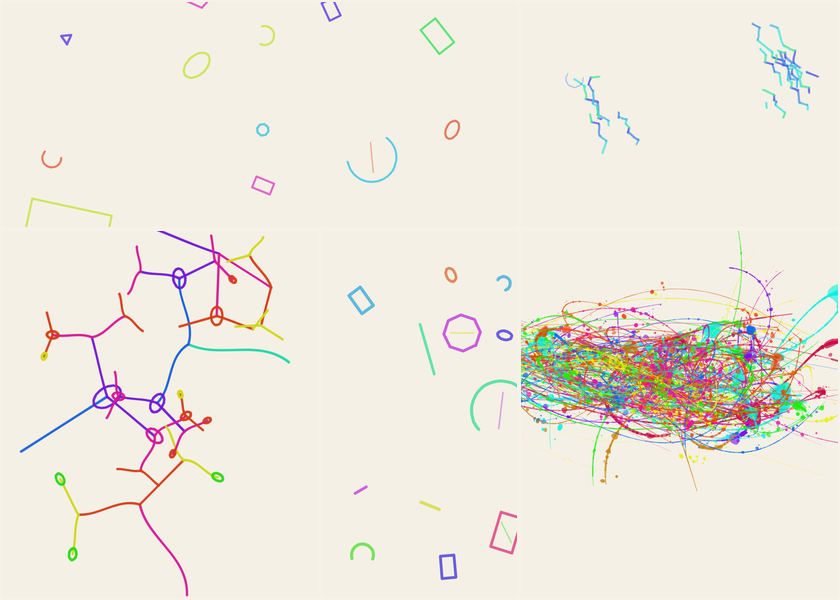
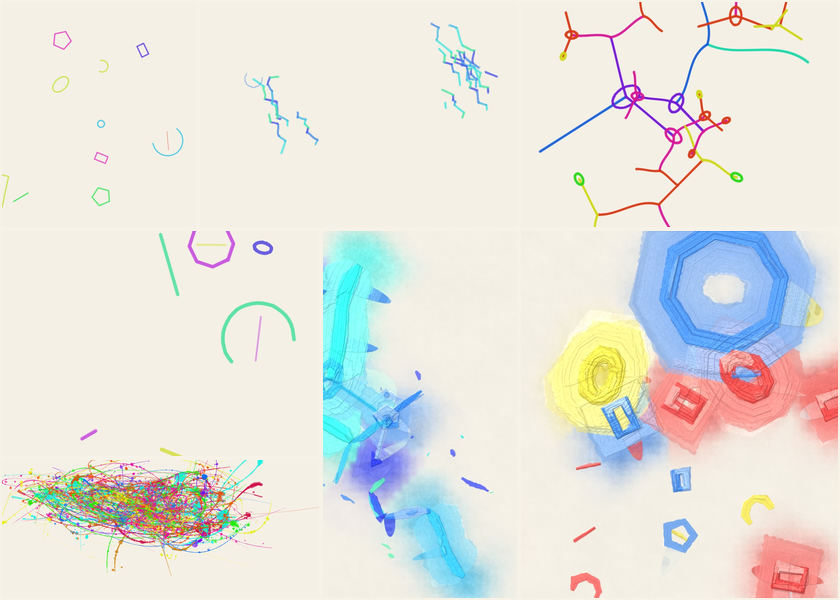
Archive ALGO ART gallery 2026-10-22

diff --git a/gallery/2026-10-22/index.html b/gallery/2026-10-22/index.html
@@ -4,7 +4,7 @@
 <meta charset="utf-8">
 <meta name="viewport" content="width=device-width,initial-scale=1">
 <title>PROPORTION PIECE Daily Gallery — 22 October 2026 | Golden Ratio Generative Art</title>
-<meta name="description" content="5 drawings made on 22 October 2026. Different materials, different compositions, and room to make each one your own.">
+<meta name="description" content="7 drawings made on 22 October 2026. Different materials, different compositions, and room to make each one your own.">
 <meta name="robots" content="index,follow,max-image-preview:large">
 <link rel="canonical" href="https://southernadd-cmyk.github.io/algoart/gallery/2026-10-22/">
 <link rel="icon" type="image/svg+xml" href="../../favicon.svg">
@@ -16,16 +16,16 @@
 <meta property="og:type" content="website">
 <meta property="og:site_name" content="PROPORTION PIECE">
 <meta property="og:title" content="PROPORTION PIECE Daily Gallery — 22 October 2026 | Golden Ratio Generative Art">
-<meta property="og:description" content="5 drawings made on 22 October 2026. Different materials, different compositions, and room to make each one your own.">
+<meta property="og:description" content="7 drawings made on 22 October 2026. Different materials, different compositions, and room to make each one your own.">
 <meta property="og:url" content="https://southernadd-cmyk.github.io/algoart/gallery/2026-10-22/">
 <meta property="og:image" content="https://southernadd-cmyk.github.io/algoart/gallery/2026-10-22/2026-10-22-01-geometric-AA-20261022-01-51330.jpg">
 <meta property="og:image:width" content="1400">
 <meta property="og:image:height" content="1000">
 <meta name="twitter:card" content="summary_large_image">
 <meta name="twitter:title" content="PROPORTION PIECE Daily Gallery — 22 October 2026 | Golden Ratio Generative Art">
-<meta name="twitter:description" content="5 drawings made on 22 October 2026. Different materials, different compositions, and room to make each one your own.">
+<meta name="twitter:description" content="7 drawings made on 22 October 2026. Different materials, different compositions, and room to make each one your own.">
 <meta name="twitter:image" content="https://southernadd-cmyk.github.io/algoart/gallery/2026-10-22/2026-10-22-01-geometric-AA-20261022-01-51330.jpg">
-<script type="application/ld+json">{"@context":"https://schema.org","@type":"CollectionPage","name":"PROPORTION PIECE Daily Gallery — 22 October 2026","description":"5 drawings made on 22 October 2026. Different materials, different compositions, and room to make each one your own.","url":"https://southernadd-cmyk.github.io/algoart/gallery/2026-10-22/","isPartOf":{"@type":"WebSite","name":"PROPORTION PIECE","url":"https://southernadd-cmyk.github.io/algoart/"},"about":["generative art","algorithmic art","golden ratio","creative coding","digital marker art"],"mainEntity":{"@type":"ItemList","numberOfItems":5,"itemListElement":[{"@type":"ListItem","position":1,"item":{"@type":"VisualArtwork","name":"Constructed Forms — Study 01","description":"Constructed Forms generative marker artwork using seed AA-20261022-01-51330, 95% Additional φ pull, fine pen and the spectrum palette.","image":"https://southernadd-cmyk.github.io/algoart/gallery/2026-10-22/2026-10-22-01-geometric-AA-20261022-01-51330.jpg","url":"https://southernadd-cmyk.github.io/algoart/?v=8&seed=AA-20261022-01-51330&mode=geometric&el=36&den=60&cx=59&neg=39&phi=95&rec=7&spi=29&ga=87&nest=23&pen=fine&th=12&wob=47&od=5&op=72&pr=40&dry=28&curve=5&shape=67&overlap=41&rot=87&ln=1&ci=1&re=1&po=1&ar=1&pal=spectrum&cols=6&sat=76&bri=58&paper=%23f5f0e6&grain=26&sheet=phi","artform":"Generative digital marker art","artMedium":"Browser canvas and deterministic algorithm","creator":{"@type":"Organization","name":"PROPORTION PIECE","url":"https://southernadd-cmyk.github.io/algoart/"}}},{"@type":"ListItem","position":2,"item":{"@type":"VisualArtwork","name":"Automatic Marks — Study 02","description":"Automatic Marks generative marker artwork using seed AA-20261022-02-28949, 87% Additional φ pull, felt pen and the cold palette.","image":"https://southernadd-cmyk.github.io/algoart/gallery/2026-10-22/2026-10-22-02-scribble-AA-20261022-02-28949.jpg","url":"https://southernadd-cmyk.github.io/algoart/?v=8&seed=AA-20261022-02-28949&mode=scribble&el=43&den=48&cx=61&neg=37&phi=87&rec=8&spi=62&ga=95&nest=57&pen=felt&th=8&wob=22&od=3&op=76&pr=51&dry=39&curve=80&shape=49&overlap=48&rot=68&ln=1&ci=1&re=1&po=1&ar=1&pal=cold&cols=5&sat=75&bri=60&paper=%23f5f0e6&grain=13&sheet=phi","artform":"Generative digital marker art","artMedium":"Browser canvas and deterministic algorithm","creator":{"@type":"Organization","name":"PROPORTION PIECE","url":"https://southernadd-cmyk.github.io/algoart/"}}},{"@type":"ListItem","position":3,"item":{"@type":"VisualArtwork","name":"Growth Systems — Study 03","description":"Growth Systems generative marker artwork using seed AP-20261022-01-70929, 100% Additional φ pull, paint pen and the spectrum palette.","image":"https://southernadd-cmyk.github.io/algoart/gallery/2026-10-22/2026-10-22-portrait-01-organic-AP-20261022-01-70929.jpg","url":"https://southernadd-cmyk.github.io/algoart/?v=8&seed=AP-20261022-01-70929&mode=organic&fmt=portrait&el=49&den=52&cx=60&neg=31&phi=100&rec=4&spi=63&ga=95&nest=60&pen=paint&th=5&wob=58&od=6&op=72&pr=40&dry=24&curve=77&shape=76&overlap=30&rot=100&ln=1&ci=1&re=1&po=1&ar=1&pal=spectrum&cols=7&sat=81&bri=47&paper=%23f5f0e6&grain=20&sheet=phi","artform":"Generative digital marker art","artMedium":"Browser canvas and deterministic algorithm","creator":{"@type":"Organization","name":"PROPORTION PIECE","url":"https://southernadd-cmyk.github.io/algoart/"}}},{"@type":"ListItem","position":4,"item":{"@type":"VisualArtwork","name":"Constructed Forms — Study 04","description":"Constructed Forms generative marker artwork using seed AP-20261022-02-93310, 88% Additional φ pull, dry pen and the spectrum palette.","image":"https://southernadd-cmyk.github.io/algoart/gallery/2026-10-22/2026-10-22-portrait-02-geometric-AP-20261022-02-93310.jpg","url":"https://southernadd-cmyk.github.io/algoart/?v=8&seed=AP-20261022-02-93310&mode=geometric&fmt=portrait&el=26&den=61&cx=71&neg=47&phi=88&rec=4&spi=20&ga=91&nest=40&pen=dry&th=10&wob=29&od=3&op=78&pr=62&dry=9&curve=8&shape=57&overlap=49&rot=97&ln=1&ci=1&re=1&po=1&ar=1&pal=spectrum&cols=8&sat=73&bri=51&paper=%23f5f0e6&grain=23&sheet=phi","artform":"Generative digital marker art","artMedium":"Browser canvas and deterministic algorithm","creator":{"@type":"Organization","name":"PROPORTION PIECE","url":"https://southernadd-cmyk.github.io/algoart/"}}},{"@type":"ListItem","position":5,"item":{"@type":"VisualArtwork","name":"Growth Systems — Action Painting Study 05","description":"Growth Systems Action Painting using seed ACL-20261022-01-49154, the neon palette and geometry-guided flowing paint.","image":"https://southernadd-cmyk.github.io/algoart/gallery/2026-10-22/2026-10-22-action-landscape-01-organic-ACL-20261022-01-49154.jpg","url":"https://southernadd-cmyk.github.io/algoart/?v=9&seed=ACL-20261022-01-49154&mode=organic&el=49&den=64&cx=57&neg=32&phi=88&rec=5&spi=62&ga=95&nest=28&pen=fine&th=5&wob=58&od=2&op=83&pr=37&dry=13&curve=71&shape=58&overlap=65&rot=74&ln=1&ci=1&re=1&po=1&ar=1&pal=neon&cols=9&sat=86&bri=49&paper=%23f5f0e6&grain=28&material=action-v2&sheet=phi","artform":"Generative action painting","artMedium":"Browser canvas and deterministic algorithm","creator":{"@type":"Organization","name":"PROPORTION PIECE","url":"https://southernadd-cmyk.github.io/algoart/"}}}]}}</script>
+<script type="application/ld+json">{"@context":"https://schema.org","@type":"CollectionPage","name":"PROPORTION PIECE Daily Gallery — 22 October 2026","description":"7 drawings made on 22 October 2026. Different materials, different compositions, and room to make each one your own.","url":"https://southernadd-cmyk.github.io/algoart/gallery/2026-10-22/","isPartOf":{"@type":"WebSite","name":"PROPORTION PIECE","url":"https://southernadd-cmyk.github.io/algoart/"},"about":["generative art","algorithmic art","golden ratio","creative coding","digital marker art"],"mainEntity":{"@type":"ItemList","numberOfItems":7,"itemListElement":[{"@type":"ListItem","position":1,"item":{"@type":"VisualArtwork","name":"Constructed Forms — Study 01","description":"Constructed Forms generative marker artwork using seed AA-20261022-01-51330, 95% Additional φ pull, fine pen and the spectrum palette.","image":"https://southernadd-cmyk.github.io/algoart/gallery/2026-10-22/2026-10-22-01-geometric-AA-20261022-01-51330.jpg","url":"https://southernadd-cmyk.github.io/algoart/?v=8&seed=AA-20261022-01-51330&mode=geometric&el=36&den=60&cx=59&neg=39&phi=95&rec=7&spi=29&ga=87&nest=23&pen=fine&th=12&wob=47&od=5&op=72&pr=40&dry=28&curve=5&shape=67&overlap=41&rot=87&ln=1&ci=1&re=1&po=1&ar=1&pal=spectrum&cols=6&sat=76&bri=58&paper=%23f5f0e6&grain=26&sheet=phi","artform":"Generative digital marker art","artMedium":"Browser canvas and deterministic algorithm","creator":{"@type":"Organization","name":"PROPORTION PIECE","url":"https://southernadd-cmyk.github.io/algoart/"}}},{"@type":"ListItem","position":2,"item":{"@type":"VisualArtwork","name":"Automatic Marks — Study 02","description":"Automatic Marks generative marker artwork using seed AA-20261022-02-28949, 87% Additional φ pull, felt pen and the cold palette.","image":"https://southernadd-cmyk.github.io/algoart/gallery/2026-10-22/2026-10-22-02-scribble-AA-20261022-02-28949.jpg","url":"https://southernadd-cmyk.github.io/algoart/?v=8&seed=AA-20261022-02-28949&mode=scribble&el=43&den=48&cx=61&neg=37&phi=87&rec=8&spi=62&ga=95&nest=57&pen=felt&th=8&wob=22&od=3&op=76&pr=51&dry=39&curve=80&shape=49&overlap=48&rot=68&ln=1&ci=1&re=1&po=1&ar=1&pal=cold&cols=5&sat=75&bri=60&paper=%23f5f0e6&grain=13&sheet=phi","artform":"Generative digital marker art","artMedium":"Browser canvas and deterministic algorithm","creator":{"@type":"Organization","name":"PROPORTION PIECE","url":"https://southernadd-cmyk.github.io/algoart/"}}},{"@type":"ListItem","position":3,"item":{"@type":"VisualArtwork","name":"Growth Systems — Study 03","description":"Growth Systems generative marker artwork using seed AP-20261022-01-70929, 100% Additional φ pull, paint pen and the spectrum palette.","image":"https://southernadd-cmyk.github.io/algoart/gallery/2026-10-22/2026-10-22-portrait-01-organic-AP-20261022-01-70929.jpg","url":"https://southernadd-cmyk.github.io/algoart/?v=8&seed=AP-20261022-01-70929&mode=organic&fmt=portrait&el=49&den=52&cx=60&neg=31&phi=100&rec=4&spi=63&ga=95&nest=60&pen=paint&th=5&wob=58&od=6&op=72&pr=40&dry=24&curve=77&shape=76&overlap=30&rot=100&ln=1&ci=1&re=1&po=1&ar=1&pal=spectrum&cols=7&sat=81&bri=47&paper=%23f5f0e6&grain=20&sheet=phi","artform":"Generative digital marker art","artMedium":"Browser canvas and deterministic algorithm","creator":{"@type":"Organization","name":"PROPORTION PIECE","url":"https://southernadd-cmyk.github.io/algoart/"}}},{"@type":"ListItem","position":4,"item":{"@type":"VisualArtwork","name":"Constructed Forms — Study 04","description":"Constructed Forms generative marker artwork using seed AP-20261022-02-93310, 88% Additional φ pull, dry pen and the spectrum palette.","image":"https://southernadd-cmyk.github.io/algoart/gallery/2026-10-22/2026-10-22-portrait-02-geometric-AP-20261022-02-93310.jpg","url":"https://southernadd-cmyk.github.io/algoart/?v=8&seed=AP-20261022-02-93310&mode=geometric&fmt=portrait&el=26&den=61&cx=71&neg=47&phi=88&rec=4&spi=20&ga=91&nest=40&pen=dry&th=10&wob=29&od=3&op=78&pr=62&dry=9&curve=8&shape=57&overlap=49&rot=97&ln=1&ci=1&re=1&po=1&ar=1&pal=spectrum&cols=8&sat=73&bri=51&paper=%23f5f0e6&grain=23&sheet=phi","artform":"Generative digital marker art","artMedium":"Browser canvas and deterministic algorithm","creator":{"@type":"Organization","name":"PROPORTION PIECE","url":"https://southernadd-cmyk.github.io/algoart/"}}},{"@type":"ListItem","position":5,"item":{"@type":"VisualArtwork","name":"Growth Systems — Tissue & Graphite Study 05","description":"Growth Systems Tissue & Graphite artwork using seed AWL-20261022-01-86671 and 93% Additional φ pull.","image":"https://southernadd-cmyk.github.io/algoart/gallery/2026-10-22/2026-10-22-watercolor-landscape-01-organic-AWL-20261022-01-86671.jpg","url":"https://southernadd-cmyk.github.io/algoart/?v=8&seed=AWL-20261022-01-86671&mode=organic&el=48&den=66&cx=59&neg=37&phi=93&rec=4&spi=66&ga=89&nest=51&pen=fine&th=10&wob=55&od=3&op=79&pr=37&dry=33&curve=92&shape=65&overlap=61&rot=57&ln=1&ci=1&re=1&po=1&ar=1&pal=cold&cols=5&sat=89&bri=50&paper=%23f5f0e6&grain=26&tissue=7&sheet=phi","artform":"Tissue and graphite generative art","artMedium":"Browser canvas and deterministic algorithm","creator":{"@type":"Organization","name":"PROPORTION PIECE","url":"https://southernadd-cmyk.github.io/algoart/"}}},{"@type":"ListItem","position":6,"item":{"@type":"VisualArtwork","name":"Constructed Forms — Tissue & Graphite Study 06","description":"Constructed Forms Tissue & Graphite artwork using seed AWL-20261022-02-91646 and 84% Additional φ pull.","image":"https://southernadd-cmyk.github.io/algoart/gallery/2026-10-22/2026-10-22-watercolor-landscape-02-geometric-AWL-20261022-02-91646.jpg","url":"https://southernadd-cmyk.github.io/algoart/?v=8&seed=AWL-20261022-02-91646&mode=geometric&el=36&den=39&cx=55&neg=34&phi=84&rec=6&spi=18&ga=99&nest=38&pen=scribble&th=11&wob=38&od=6&op=70&pr=53&dry=29&curve=10&shape=72&overlap=43&rot=97&ln=1&ci=1&re=1&po=1&ar=1&pal=primary&cols=4&sat=79&bri=54&paper=%23f5f0e6&grain=15&tissue=7&sheet=phi","artform":"Tissue and graphite generative art","artMedium":"Browser canvas and deterministic algorithm","creator":{"@type":"Organization","name":"PROPORTION PIECE","url":"https://southernadd-cmyk.github.io/algoart/"}}},{"@type":"ListItem","position":7,"item":{"@type":"VisualArtwork","name":"Growth Systems — Action Painting Study 07","description":"Growth Systems Action Painting using seed ACL-20261022-01-49154, the neon palette and geometry-guided flowing paint.","image":"https://southernadd-cmyk.github.io/algoart/gallery/2026-10-22/2026-10-22-action-landscape-01-organic-ACL-20261022-01-49154.jpg","url":"https://southernadd-cmyk.github.io/algoart/?v=9&seed=ACL-20261022-01-49154&mode=organic&el=49&den=64&cx=57&neg=32&phi=88&rec=5&spi=62&ga=95&nest=28&pen=fine&th=5&wob=58&od=2&op=83&pr=37&dry=13&curve=71&shape=58&overlap=65&rot=74&ln=1&ci=1&re=1&po=1&ar=1&pal=neon&cols=9&sat=86&bri=49&paper=%23f5f0e6&grain=28&material=action-v2&sheet=phi","artform":"Generative action painting","artMedium":"Browser canvas and deterministic algorithm","creator":{"@type":"Organization","name":"PROPORTION PIECE","url":"https://southernadd-cmyk.github.io/algoart/"}}}]}}</script>
 </head>
 <body>
 <header class="algo-global-header">
@@ -38,8 +38,8 @@
   <section class="hero">
     <div class="kicker">DAILY ARCHIVE / 2026-10-22</div>
     <h1>Drawings from<br>22 October 2026.</h1>
-    <p>5 drawings made on 22 October 2026. Different materials, different compositions, and room to make each one your own.</p>
-    <div class="hero-meta"><span>5 drawings</span><span>Different materials</span><span>Each one can be revisited</span></div>
+    <p>7 drawings made on 22 October 2026. Different materials, different compositions, and room to make each one your own.</p>
+    <div class="hero-meta"><span>7 drawings</span><span>Different materials</span><span>Each one can be revisited</span></div>
   </section>
   <section class="grid" aria-label="Artwork generated on 22 October 2026">
     
@@ -131,12 +131,56 @@
       </div>
     </article>
 
-    <article id="2026-10-22-ACL01" class="art-card" data-orientation="landscape" data-material="action">
-      <a class="art-image-link" href="https://southernadd-cmyk.github.io/algoart/?v=9&amp;seed=ACL-20261022-01-49154&amp;mode=organic&amp;el=49&amp;den=64&amp;cx=57&amp;neg=32&amp;phi=88&amp;rec=5&amp;spi=62&amp;ga=95&amp;nest=28&amp;pen=fine&amp;th=5&amp;wob=58&amp;od=2&amp;op=83&amp;pr=37&amp;dry=13&amp;curve=71&amp;shape=58&amp;overlap=65&amp;rot=74&amp;ln=1&amp;ci=1&amp;re=1&amp;po=1&amp;ar=1&amp;pal=neon&amp;cols=9&amp;sat=86&amp;bri=49&amp;paper=%23f5f0e6&amp;grain=28&amp;material=action-v2&amp;sheet=phi" aria-label="Open and remix Growth Systems — Action Painting Study 05 in PROPORTION PIECE">
-        <img src="2026-10-22-action-landscape-01-organic-ACL-20261022-01-49154.jpg" width="1400" height="1000" loading="lazy" decoding="async" alt="Action painting from PROPORTION PIECE&#39;s Growth Systems system, seed ACL-20261022-01-49154. Flowing paint skeins, irregular pools and splashes drawn from golden-ratio source geometry.">
+    <article id="2026-10-22-WL01" class="art-card" data-orientation="landscape" data-material="watercolor">
+      <a class="art-image-link" href="https://southernadd-cmyk.github.io/algoart/?v=8&amp;seed=AWL-20261022-01-86671&amp;mode=organic&amp;el=48&amp;den=66&amp;cx=59&amp;neg=37&amp;phi=93&amp;rec=4&amp;spi=66&amp;ga=89&amp;nest=51&amp;pen=fine&amp;th=10&amp;wob=55&amp;od=3&amp;op=79&amp;pr=37&amp;dry=33&amp;curve=92&amp;shape=65&amp;overlap=61&amp;rot=57&amp;ln=1&amp;ci=1&amp;re=1&amp;po=1&amp;ar=1&amp;pal=cold&amp;cols=5&amp;sat=89&amp;bri=50&amp;paper=%23f5f0e6&amp;grain=26&amp;tissue=7&amp;sheet=phi" aria-label="Open and remix Growth Systems — Tissue &amp; Graphite Study 05 in PROPORTION PIECE">
+        <img src="2026-10-22-watercolor-landscape-01-organic-AWL-20261022-01-86671.jpg" width="1400" height="1000" loading="lazy" decoding="async" alt="Tissue and graphite artwork from PROPORTION PIECE&#39;s Growth Systems system, seed AWL-20261022-01-86671. Golden-ratio composition with layered translucent colour, textured paper and darker marks.">
       </a>
       <div class="art-info">
         <div class="art-number">05</div>
+        <div>
+          <h2>Growth Systems · Tissue &amp; Graphite</h2>
+          
+          <dl>
+            <div><dt>Seed</dt><dd>AWL-20261022-01-86671</dd></div>
+            <div><dt>Series</dt><dd>Growth Systems</dd></div>
+            <div><dt>Format</dt><dd>Landscape · 1400 × 1000</dd></div>
+            <div><dt>Additional φ pull</dt><dd>93%</dd></div>
+            <div><dt>Material</dt><dd>Tissue &amp; Graphite</dd></div>
+            <div><dt>Palette</dt><dd>cold</dd></div>
+          </dl>
+          <a class="remix" href="https://southernadd-cmyk.github.io/algoart/?v=8&amp;seed=AWL-20261022-01-86671&amp;mode=organic&amp;el=48&amp;den=66&amp;cx=59&amp;neg=37&amp;phi=93&amp;rec=4&amp;spi=66&amp;ga=89&amp;nest=51&amp;pen=fine&amp;th=10&amp;wob=55&amp;od=3&amp;op=79&amp;pr=37&amp;dry=33&amp;curve=92&amp;shape=65&amp;overlap=61&amp;rot=57&amp;ln=1&amp;ci=1&amp;re=1&amp;po=1&amp;ar=1&amp;pal=cold&amp;cols=5&amp;sat=89&amp;bri=50&amp;paper=%23f5f0e6&amp;grain=26&amp;tissue=7&amp;sheet=phi">Open this drawing →</a>
+        </div>
+      </div>
+    </article>
+
+    <article id="2026-10-22-WL02" class="art-card" data-orientation="landscape" data-material="watercolor">
+      <a class="art-image-link" href="https://southernadd-cmyk.github.io/algoart/?v=8&amp;seed=AWL-20261022-02-91646&amp;mode=geometric&amp;el=36&amp;den=39&amp;cx=55&amp;neg=34&amp;phi=84&amp;rec=6&amp;spi=18&amp;ga=99&amp;nest=38&amp;pen=scribble&amp;th=11&amp;wob=38&amp;od=6&amp;op=70&amp;pr=53&amp;dry=29&amp;curve=10&amp;shape=72&amp;overlap=43&amp;rot=97&amp;ln=1&amp;ci=1&amp;re=1&amp;po=1&amp;ar=1&amp;pal=primary&amp;cols=4&amp;sat=79&amp;bri=54&amp;paper=%23f5f0e6&amp;grain=15&amp;tissue=7&amp;sheet=phi" aria-label="Open and remix Constructed Forms — Tissue &amp; Graphite Study 06 in PROPORTION PIECE">
+        <img src="2026-10-22-watercolor-landscape-02-geometric-AWL-20261022-02-91646.jpg" width="1400" height="1000" loading="lazy" decoding="async" alt="Tissue and graphite artwork from PROPORTION PIECE&#39;s Constructed Forms system, seed AWL-20261022-02-91646. Golden-ratio composition with layered translucent colour, textured paper and darker marks.">
+      </a>
+      <div class="art-info">
+        <div class="art-number">06</div>
+        <div>
+          <h2>Constructed Forms · Tissue &amp; Graphite</h2>
+          
+          <dl>
+            <div><dt>Seed</dt><dd>AWL-20261022-02-91646</dd></div>
+            <div><dt>Series</dt><dd>Constructed Forms</dd></div>
+            <div><dt>Format</dt><dd>Landscape · 1400 × 1000</dd></div>
+            <div><dt>Additional φ pull</dt><dd>84%</dd></div>
+            <div><dt>Material</dt><dd>Tissue &amp; Graphite</dd></div>
+            <div><dt>Palette</dt><dd>primary</dd></div>
+          </dl>
+          <a class="remix" href="https://southernadd-cmyk.github.io/algoart/?v=8&amp;seed=AWL-20261022-02-91646&amp;mode=geometric&amp;el=36&amp;den=39&amp;cx=55&amp;neg=34&amp;phi=84&amp;rec=6&amp;spi=18&amp;ga=99&amp;nest=38&amp;pen=scribble&amp;th=11&amp;wob=38&amp;od=6&amp;op=70&amp;pr=53&amp;dry=29&amp;curve=10&amp;shape=72&amp;overlap=43&amp;rot=97&amp;ln=1&amp;ci=1&amp;re=1&amp;po=1&amp;ar=1&amp;pal=primary&amp;cols=4&amp;sat=79&amp;bri=54&amp;paper=%23f5f0e6&amp;grain=15&amp;tissue=7&amp;sheet=phi">Open this drawing →</a>
+        </div>
+      </div>
+    </article>
+
+    <article id="2026-10-22-ACL01" class="art-card" data-orientation="landscape" data-material="action">
+      <a class="art-image-link" href="https://southernadd-cmyk.github.io/algoart/?v=9&amp;seed=ACL-20261022-01-49154&amp;mode=organic&amp;el=49&amp;den=64&amp;cx=57&amp;neg=32&amp;phi=88&amp;rec=5&amp;spi=62&amp;ga=95&amp;nest=28&amp;pen=fine&amp;th=5&amp;wob=58&amp;od=2&amp;op=83&amp;pr=37&amp;dry=13&amp;curve=71&amp;shape=58&amp;overlap=65&amp;rot=74&amp;ln=1&amp;ci=1&amp;re=1&amp;po=1&amp;ar=1&amp;pal=neon&amp;cols=9&amp;sat=86&amp;bri=49&amp;paper=%23f5f0e6&amp;grain=28&amp;material=action-v2&amp;sheet=phi" aria-label="Open and remix Growth Systems — Action Painting Study 07 in PROPORTION PIECE">
+        <img src="2026-10-22-action-landscape-01-organic-ACL-20261022-01-49154.jpg" width="1400" height="1000" loading="lazy" decoding="async" alt="Action painting from PROPORTION PIECE&#39;s Growth Systems system, seed ACL-20261022-01-49154. Flowing paint skeins, irregular pools and splashes drawn from golden-ratio source geometry.">
+      </a>
+      <div class="art-info">
+        <div class="art-number">07</div>
         <div>
           <h2>Growth Systems · Action Painting</h2>
           
@@ -154,7 +198,7 @@
     </article>
   </section>
   <section class="about">
-    <span class="section-no">06</span>
+    <span class="section-no">08</span>
     <div>
       <h2>THE SAME PROPORTION.<br>DIFFERENT MARKS.</h2>
       <p>The golden ratio helps arrange each drawing. The material changes how those arrangements feel. Open a piece to see its settings, then change whatever you like.</p>

diff --git a/gallery/index.html b/gallery/index.html
@@ -38,13 +38,13 @@
     <div class="kicker">PERMANENT DAILY ARCHIVE</div>
     <h1>A DRAWING A DAY.<br>AND THEN SOME.</h1>
     <p>A fresh collection each day. Open a drawing to see its seed and try another version.</p>
-    <div class="hero-meta"><span>18 DAILY EDITIONS</span><span>LATEST: 5 STUDIES</span><span>EXACT STATES PRESERVED</span></div>
+    <div class="hero-meta"><span>18 DAILY EDITIONS</span><span>LATEST: 7 STUDIES</span><span>EXACT STATES PRESERVED</span></div>
   </section>
   <section class="day-grid" aria-label="Daily PROPORTION PIECE galleries">
     
     <article class="day-card">
       <a href="./2026-10-22/">
-        <img src="./2026-10-22/archive-preview.jpg?v=2026-10-22-5" width="840" height="600" loading="eager" decoding="async" fetchpriority="high" onerror="this.onerror=null;this.src='./2026-10-22/2026-10-22-01-geometric-AA-20261022-01-51330.jpg'" alt="Recursive Divisions mosaic showing the artworks from 22 October 2026">
+        <img src="./2026-10-22/archive-preview.jpg?v=2026-10-22-7" width="840" height="600" loading="eager" decoding="async" fetchpriority="high" onerror="this.onerror=null;this.src='./2026-10-22/2026-10-22-01-geometric-AA-20261022-01-51330.jpg'" alt="Recursive Divisions mosaic showing the artworks from 22 October 2026">
         <div>
           <h2>22 October 2026</h2>
         </div>
